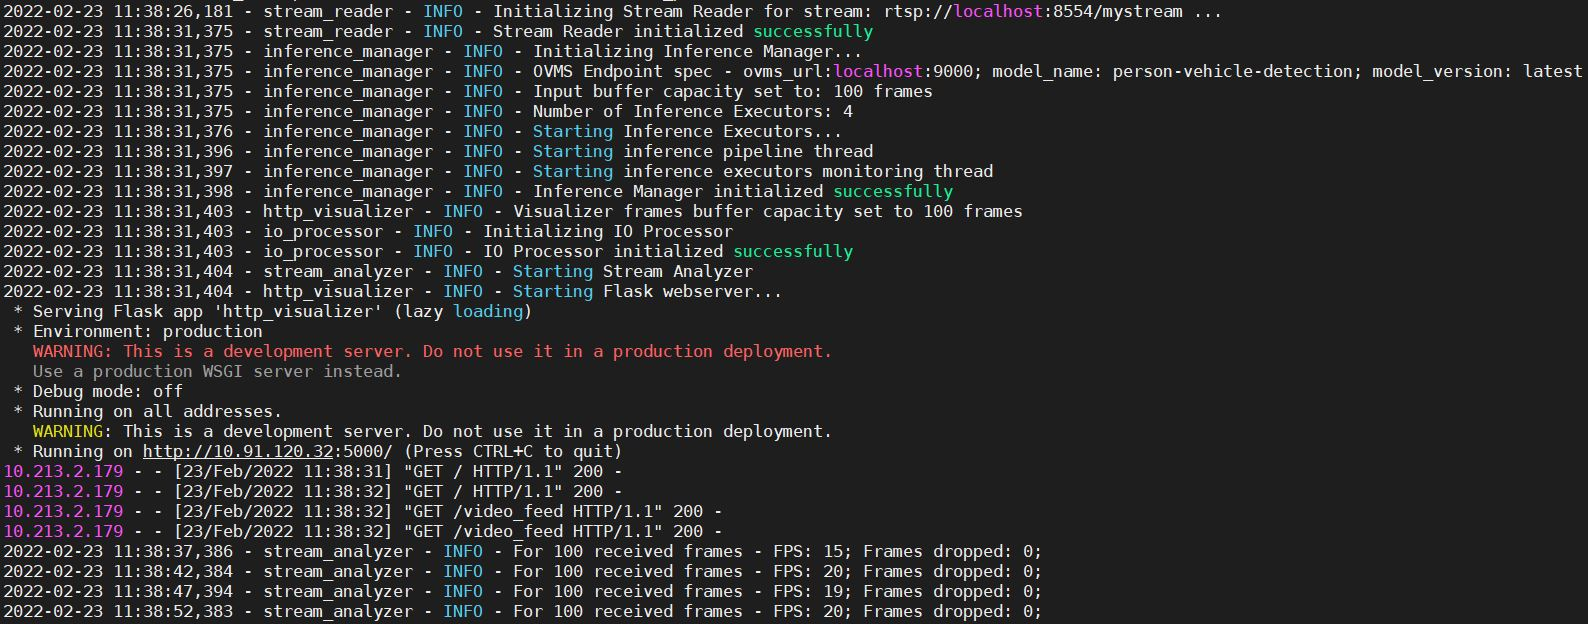
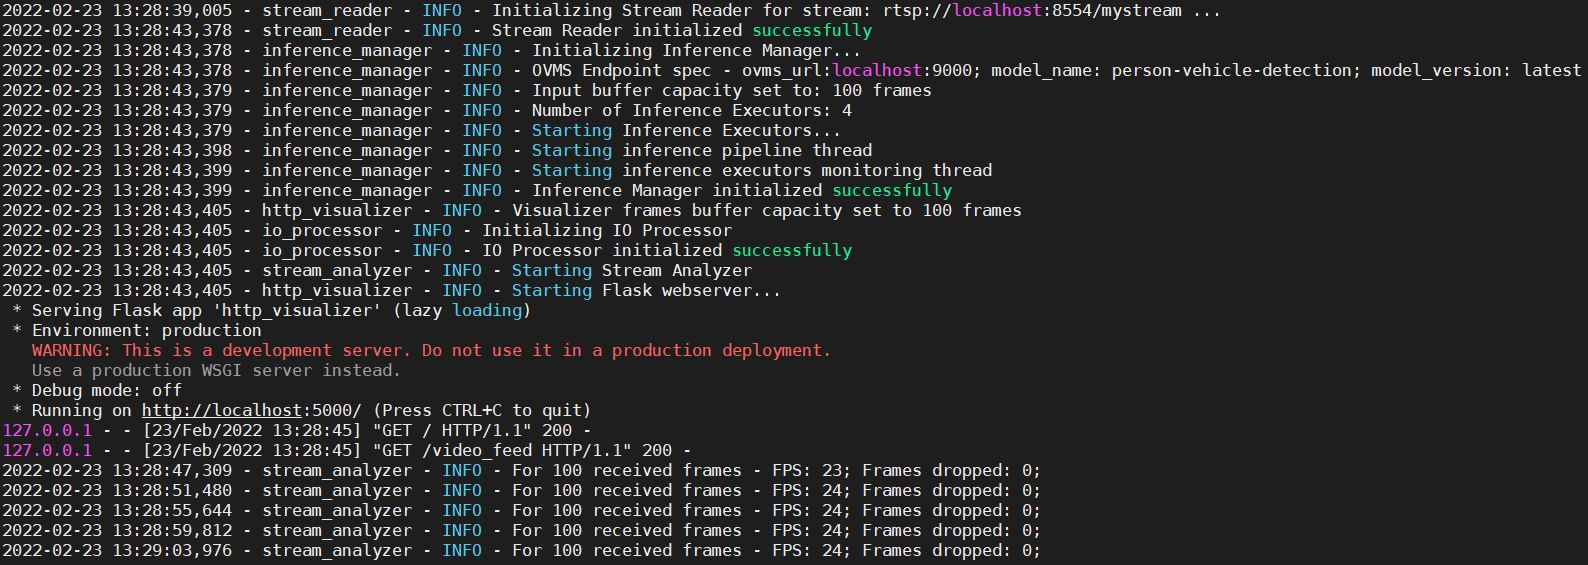
bind visualizer to localhost only

Changed region(s): [[0.0, 0.0, 1.0, 1.0]]

diff --git a/demos/real_time_stream_analysis/python/http_visualizer.py b/demos/real_time_stream_analysis/python/http_visualizer.py
@@ -24,7 +24,7 @@ import signal
 
 class HttpVisualizer():
 
-	BIND_ADDRESS="0.0.0.0" # nosec
+	BIND_ADDRESS="localhost" # nosec
 
 	def __init__(self, visualizer_port, buffer_size):
 		self.logger = get_logger(__name__)
